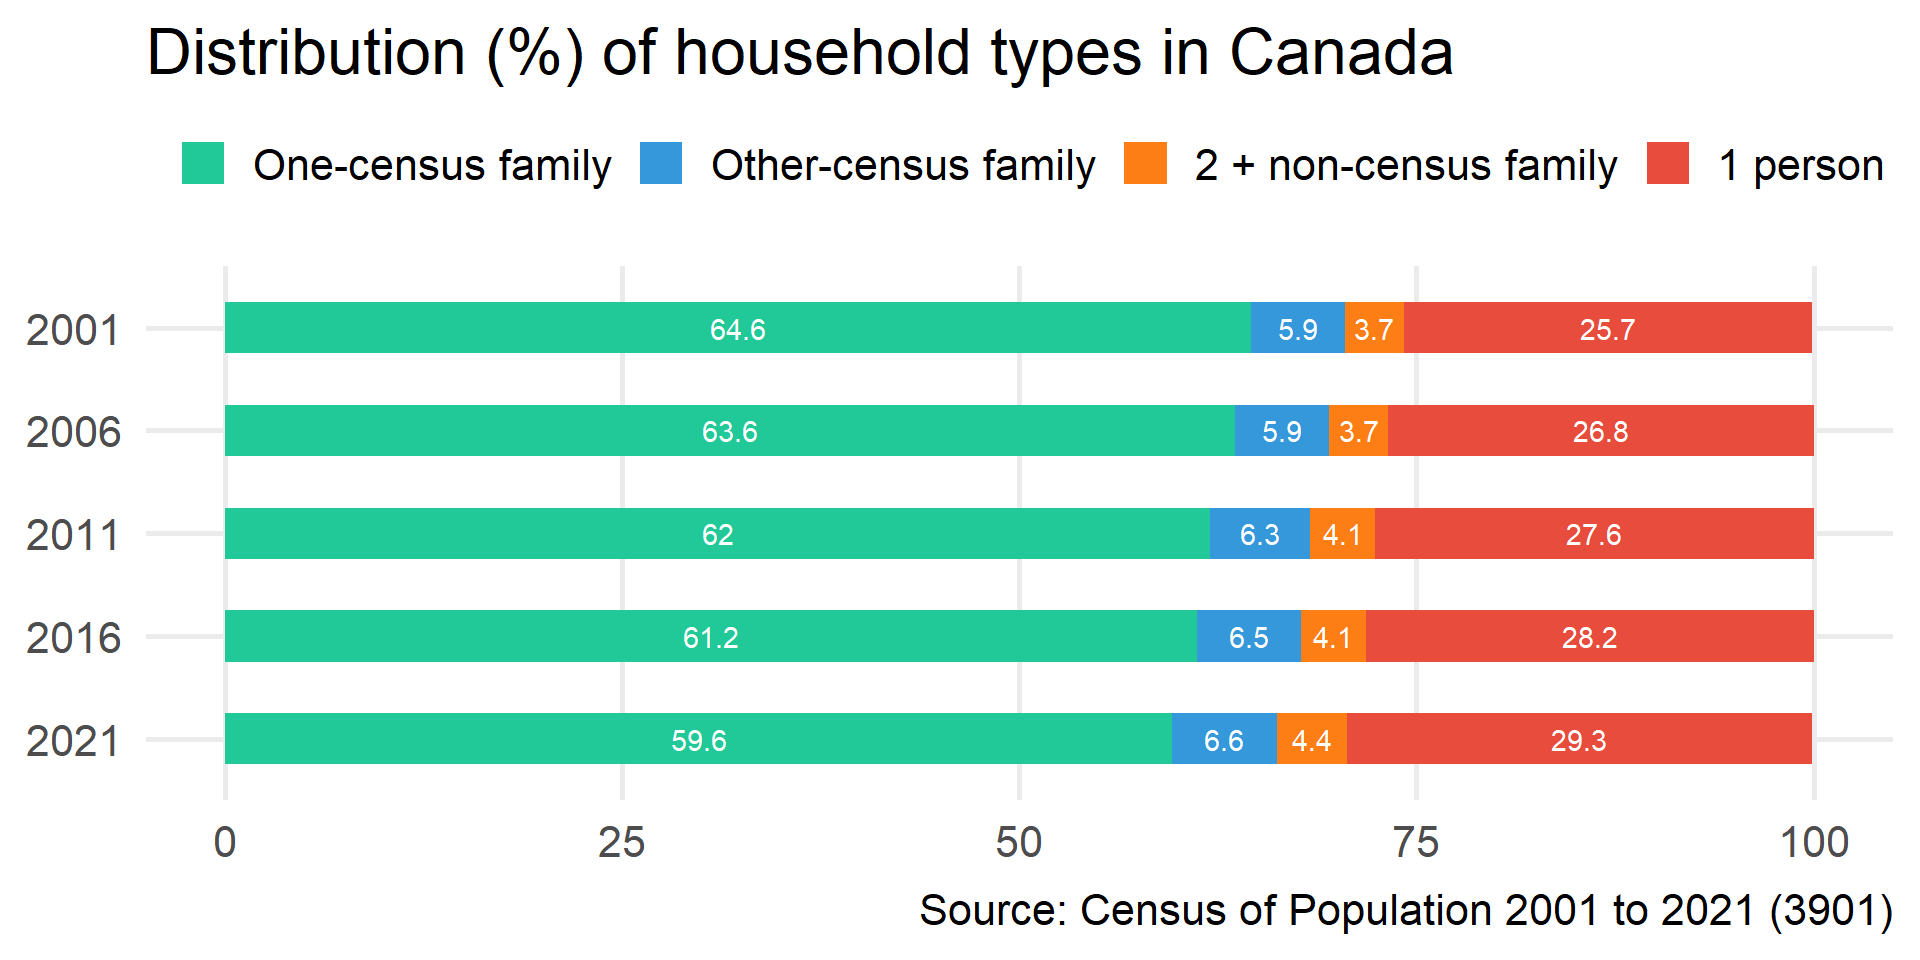
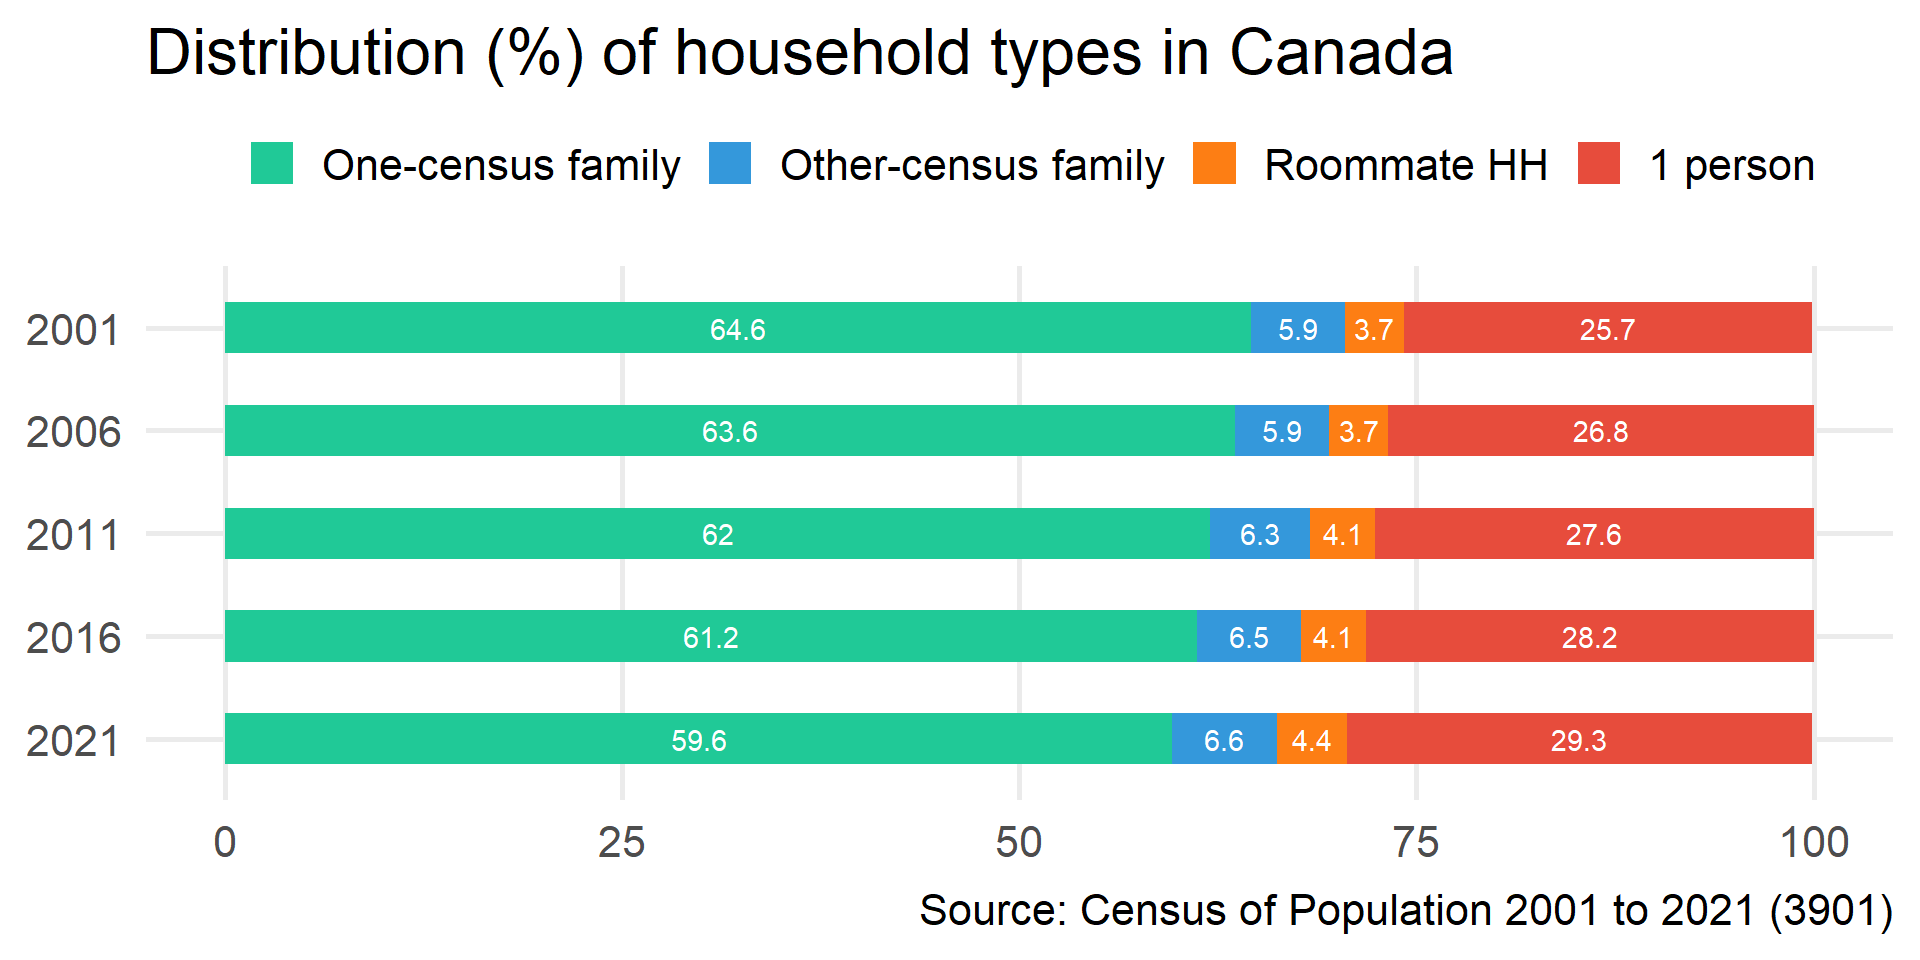
updating example slides

Changed region(s): [[0.0938, 0.125, 1.0, 0.2188]]

diff --git a/docs/soc214h/Slides/01.1 A Sociology of the Family.html b/docs/soc214h/Slides/01.1 A Sociology of the Family.html
@@ -422,6 +422,11 @@
 <ul>
 <li>A group of individuals related by birth, marriage, or adoption</li>
 </ul>
+<p>Family structure<br>
+- combination of relatives that comprise a family<br>
+- legally married spouses or common law partners;<br>
+- children; and,<br>
+- in the case of economic families, other relatives. (StatCan)</p>
 <aside class="notes">
 <ul>
 <li>No universal legal definitions, and legal implications vary</li>
@@ -464,8 +469,24 @@
           display:block!important;
       }</style></aside>
 </section>
-<section id="households-cont." class="slide level2">
-<h2>Households cont.</h2>
+<section id="example" class="slide level2">
+<h2>Example</h2>
+<p><strong>Census family</strong>: a couple, with or without children, or a one-parent family—and no additional people</p>
+<div class="fragment">
+<p><strong>Other-census family</strong>: multiple generations of a family sharing a home, two or more census families living together, or one census family living with additional people who may or may not be related</p>
+</div>
+<div class="fragment">
+<p><strong>Roommate households</strong>: of two or more people not in a census family</p>
+</div>
+<div class="fragment">
+<p><strong>One-person households</strong>: person who resides alone</p>
+
+</div>
+<aside><div>
+<p>Source: https://www150.statcan.gc.ca/n1/daily-quotidien/220713/g-a004-eng.htm</p>
+</div></aside></section>
+<section id="example-cont." class="slide level2">
+<h2>Example cont.</h2>
 
 <img data-src="01.1-A-Sociology-of-the-Family_files/figure-revealjs/unnamed-chunk-2-1.png" width="960" class="r-stretch"><aside class="notes">
 <p>Census of Population 2001 to 2021 (3901) ## https://www150.statcan.gc.ca/n1/daily-quotidien/220713/g-a004-eng.htm</p>
@@ -481,12 +502,12 @@
           display:block!important;
       }</style></aside>
 </section>
-<section id="households-cont.-1" class="slide level2">
-<h2>Households cont.</h2>
+<section id="example-cont.-1" class="slide level2">
+<h2>Example cont.</h2>
 
 <img data-src="01.1-A-Sociology-of-the-Family_files/figure-revealjs/unnamed-chunk-3-1.png" width="960" class="r-stretch"></section>
-<section id="households-cont.-2" class="slide level2">
-<h2>Households cont.</h2>
+<section id="example-cont.-2" class="slide level2">
+<h2>Example cont.</h2>
 
 <img data-src="01.1-A-Sociology-of-the-Family_files/figure-revealjs/unnamed-chunk-4-1.png" width="960" class="r-stretch"></section></section>
 <section>
